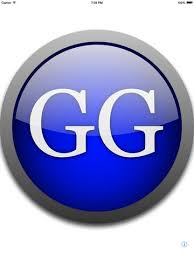
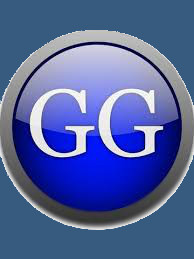
modified:   css/common.css 	modified:   graphes-groupes-sto.html 	modified:   graphes-groupes.html 	modified:   images/GG-Bleu.jpg 	modified:   my-js/code.js
Amélioration de la barre de séparation menu graphe avec des icone
	pour cliker

diff --git a/graphes-groupes.html b/graphes-groupes.html
@@ -14,15 +14,16 @@
 		
 		<link rel="stylesheet" href="css/bootstrap.min.css"> 
 		<link rel="stylesheet" type="text/css" href="css/common.css" >
-
+		
 		<title>Graphique Groupés</title>
 
 		<script>
+		
 
 	    $(document).ready(function() {
 			var outputTitle='<form class="navbar-form  input-append">';
 			outputTitle += '   <div class="form-group" >';
-            outputTitle += ' 	<input id="searchField"  type="search" class="input-sm form-control" placeholder="Filtre">';	
+            outputTitle += ' 	<input id="searchField"  type="search" class="input-sm form-control" placeholder="Item Filtre">';	
             outputTitle += '	</div>';
 			outputTitle += '</form>';
 			outputTitle += '<ul id="groupe-ul" class="nav nav-pills nav-stacked">';
@@ -36,17 +37,20 @@
 				else if (conf.groups[i].groupeType == "WithSubMenu") {
 					outputTitle += buildWithSubMenu(i);
 					conf.NoSubMenu[nbSubMenu++]=i;
-					console.log("HTML:["+conf.NoSubMenu+"]");
 				}
 				else {
 
 					outputTitle+= '<li> <a onclick="chg_groupe('+i+');" style="padding:0px; padding-left:5px;" onmouseover="onmouseovergroupename('+i+')"   onmousemove="onmousemovegroupename(event)" onmouseout="onmouseoutgroupename()">'+conf.groups[i].groupeNom + '</a></li> ';
 				}
-			} // FIN boucle for i                    
-			
+			} // FIN boucle for i
+
 			outputTitle+= '</ul>'
+
+			
+
 			//console.log(outputTitle);
 			$("#groupe").html(outputTitle);
+			
 
 			// evènement de gestion de clavier dans la zone text
 			$("#searchField").keyup(
@@ -69,12 +73,11 @@
     
 			affiche();
 
-						//
+			//
 			// gestion du déplacement de la zone de selection et graphe
 			//
-			$(".nav-switch").on("click", function() {
-				  console.log("CLIVK...... barre")
-				  var $t = $(this),
+			$(".nav-switch-icon").on("click", function() {
+				  var $t = $(".nav-switch"),
 				    v = !!$t.data("visible");
 				  $t.data("visible", !v);
 				  $("ul.nav-col").toggleClass("hidden");
@@ -85,6 +88,7 @@
 				    $("div.main-col").removeClass("col-md-12").addClass("col-md-10");
 				  }
 			});
+
 
 		}); // FIN docuement.ready
 
@@ -98,6 +102,8 @@
  				  connectWith: ".connectedSortable"
  				}).disableSelection();
  			});
+
+
  		</script>
 	</head>
 
@@ -106,7 +112,6 @@
 			<ul class="nav-tabs list-group list-unstyled" 	>
 				<li><img src="images/GG-Bleu.jpg" height="66" width="66" /img></li>
 	      	  	<div class="navbar-header">
-
 		            <a href="#" class="navbar-brand">Graphes Groupés</a>
 		        </div> 
 	      	  	
@@ -116,7 +121,6 @@
 				<li onclick="chg_echelle(2);"><button id="btnEchelle2" type="button" class="btn btn-primary navbar-btn"><span class="glyphicon glyphicon-time"> Semaine</span></button></li>
 				<li onclick="chg_echelle(3);"><button id="btnEchelle3"type="button" class="btn btn-primary navbar-btn"><span class="glyphicon glyphicon-time"> Mois</span></button></li>
 				<li onclick="chg_echelle(4);"><button  id="btnEchelle4" type="button" class="btn btn-primary navbar-btn"><span class="glyphicon glyphicon-time"> Année</span></button></li>
-				
 				
 
 				<li class="pull-right" onclick="helpButton_onclick();"><button type="button" class="btn btn-primary navbar-btn navbar-right"><span class="glyphicon glyphicon-info-sign">Aide </span> </button></li>
@@ -129,46 +133,51 @@
 
      		 <div class="page-header" id="banner">
 
-				<div class="row" >
-					<ul  class="col-md-2 list-group nav-col" >
+				<div class="row row-centered" >
+					<ul  id="nav-menu" class="col-md-2 list-group nav-col" >
+
 						<div id="groupe" class="bs-example">
 						</div>
 				    </ul>
+				    
 					
 					<div  class="col-md-10 main-col">
 						<div class="row fl-rt nav-switch" data-visible="1">
+							<span id="flecheDroite" class="nav-switch-icon glyphicon glyphicon-arrow-right"></span>
+							<span id="flecheGauche" class="nav-switch-icon glyphicon glyphicon-arrow-left"></span>
 
-						<div class="panel-success" hidden="hidden" id="configContenue">
-						 	<div class="panel-heading text-center">	
-								Configuration
+							<div class="panel-success" hidden="hidden" id="configContenue">
+							 	<div class="panel-heading text-center">	
+									Configuration
+								</div>
+								 <div class="panel-body">
+								 	 <div id="configFrame">
+	                                 
+	                                 </div>
+								</div>
 							</div>
-							 <div class="panel-body">
-							 	 <div id="configFrame">
-                                 
-                                 </div>
-							</div>
-						</div>
-						 <div class="panel-info" hidden="hidden" id="messageHelpContenue">
-						 	<div class="panel-heading text-center">	
-								Documentation
-							</div>
-							<div class="panel-body">
-								<div id="messageHelpFrame">
-                                 
-                                 </div>				
-								
-							</div>
+							 <div class="panel-info" hidden="hidden" id="messageHelpContenue">
+							 	<div class="panel-heading text-center">	
+									Documentation
+								</div>
+								<div class="panel-body">
+									<div id="messageHelpFrame">
+	                                 
+	                                 </div>				
+									
+								</div>
 
-						 </div>
-						<div class="row" >
-							<p id="graphTitre">Title Groupe</p>
-						</div>
-						
-						<div class="row">						
-						    <ul id="sortable1" class="connectedSortable " >
-							</ul>
-							<ul id="sortable2" class="connectedSortable ">
-							</ul>
+							 </div>
+							<div class="row" >
+								<p id="graphTitre">Title Groupe</p>
+							</div>
+							
+							<div class="row">						
+							    <ul id="sortable1" class="connectedSortable " >
+								</ul>
+								<ul id="sortable2" class="connectedSortable ">
+								</ul>
+							</div>
 						</div>
 					</div>	
 				</div>

diff --git a/graphes-groupes-sto.html b/graphes-groupes-sto.html
@@ -8,13 +8,13 @@
 		
   		<script src="my-js/jquery.min.js"></script>
   		<script src="my-js/bootstrap.min.js"></script>
-		<script type="text/javascript" src="my-js/conf.js" id="scriptConfJS"></script>
+		<script type="text/javascript" src="my-js/conf-sto.js" id="scriptConfJS"></script>
 		<script type="text/javascript" src="my-js/code.js"></script>
 		<script src="js/jquery-ui.js"></script>
 		
 		<link rel="stylesheet" href="css/bootstrap.min.css"> 
 		<link rel="stylesheet" type="text/css" href="css/common.css" >
-
+		
 		<title>Graphique Groupés</title>
 
 		<script>
@@ -37,7 +37,6 @@
 				else if (conf.groups[i].groupeType == "WithSubMenu") {
 					outputTitle += buildWithSubMenu(i);
 					conf.NoSubMenu[nbSubMenu++]=i;
-					console.log("HTML:["+conf.NoSubMenu+"]");
 				}
 				else {
 
@@ -77,9 +76,8 @@
 			//
 			// gestion du déplacement de la zone de selection et graphe
 			//
-			$(".nav-switch").on("click", function() {
-				  console.log("CLIVK...... barre")
-				  var $t = $(this),
+			$(".nav-switch-icon").on("click", function() {
+				  var $t = $(".nav-switch"),
 				    v = !!$t.data("visible");
 				  $t.data("visible", !v);
 				  $("ul.nav-col").toggleClass("hidden");
@@ -145,38 +143,41 @@
 					
 					<div  class="col-md-10 main-col">
 						<div class="row fl-rt nav-switch" data-visible="1">
+							<span id="flecheDroite" class="nav-switch-icon glyphicon glyphicon-arrow-right"></span>
+							<span id="flecheGauche" class="nav-switch-icon glyphicon glyphicon-arrow-left"></span>
 
-						<div class="panel-success" hidden="hidden" id="configContenue">
-						 	<div class="panel-heading text-center">	
-								Configuration
+							<div class="panel-success" hidden="hidden" id="configContenue">
+							 	<div class="panel-heading text-center">	
+									Configuration
+								</div>
+								 <div class="panel-body">
+								 	 <div id="configFrame">
+	                                 
+	                                 </div>
+								</div>
 							</div>
-							 <div class="panel-body">
-							 	 <div id="configFrame">
-                                 
-                                 </div>
-							</div>
-						</div>
-						 <div class="panel-info" hidden="hidden" id="messageHelpContenue">
-						 	<div class="panel-heading text-center">	
-								Documentation
-							</div>
-							<div class="panel-body">
-								<div id="messageHelpFrame">
-                                 
-                                 </div>				
-								
-							</div>
+							 <div class="panel-info" hidden="hidden" id="messageHelpContenue">
+							 	<div class="panel-heading text-center">	
+									Documentation
+								</div>
+								<div class="panel-body">
+									<div id="messageHelpFrame">
+	                                 
+	                                 </div>				
+									
+								</div>
 
-						 </div>
-						<div class="row" >
-							<p id="graphTitre">Title Groupe</p>
-						</div>
-						
-						<div class="row">						
-						    <ul id="sortable1" class="connectedSortable " >
-							</ul>
-							<ul id="sortable2" class="connectedSortable ">
-							</ul>
+							 </div>
+							<div class="row" >
+								<p id="graphTitre">Title Groupe</p>
+							</div>
+							
+							<div class="row">						
+							    <ul id="sortable1" class="connectedSortable " >
+								</ul>
+								<ul id="sortable2" class="connectedSortable ">
+								</ul>
+							</div>
 						</div>
 					</div>	
 				</div>

diff --git a/my-js/code.js b/my-js/code.js
@@ -57,7 +57,7 @@ function affiche()
 		outputGraph += '   <div data-toggle="tooltip" data-placement="top" title="'+description+'" class="panel-heading text-center">';
 		outputGraph += '      <ul class="nav-tabs list-group list-unstyled"  style="border-bottom: 0px" 	>';
 		outputGraph += '          <li class="text-center">'+nomTitre+'</li>';
-		outputGraph += '          <li class="pull-right"> <a href="'+str1+'" target="_blank"><span class="glyphicon glyphicon-cog"></span></a></li>';
+		outputGraph += '          <li class="pull-right"> <a href="'+str1+'" target="_blank"><span class="glyphicon glyphicon-paperclip"></span></a></li>';
 		outputGraph += '      </ul></div>';
 		outputGraph += '      <div class="panel-body" style="padding:0;">';
 		
@@ -357,7 +357,7 @@ function buildWithSubMenu(noGroupe) {
 
 
 function buildWithSubMenuEvent(val){
-	console.log("Sub MENU EVENT [" +conf.NoSubMenu+"]" );
+	//console.log("Sub MENU EVENT [" +conf.NoSubMenu+"]" );
   	console.log("chg_groupe ="+val);
 	Groupe= val;
 

diff --git a/css/common.css b/css/common.css
@@ -71,7 +71,7 @@ footer {
 .nav-switch {
   border-left		: 20px red solid;
   border-image		: linear-gradient(to right,  #3b679e 0%,#2b88d9 50%,#207cca 51%,#7db9e8 100%) 1 100%; 
-}
+  }
 
 .nav-switch-pointer {
   border: 0px dotted yellow;
@@ -87,4 +87,23 @@ footer {
 
 .nav-col  {
 	padding-right 	: 1px;
+	overflow:hidden;
+}
+
+#flecheDroite {
+ position:absolute;
+  top:15px;
+  left:4px;
+  width:30px;
+  height:30px;
+}
+
+
+#flecheGauche {
+ position:absolute;
+  top:2px;
+  left:3px;
+  width:30px;
+  height:30px;
+
 }
